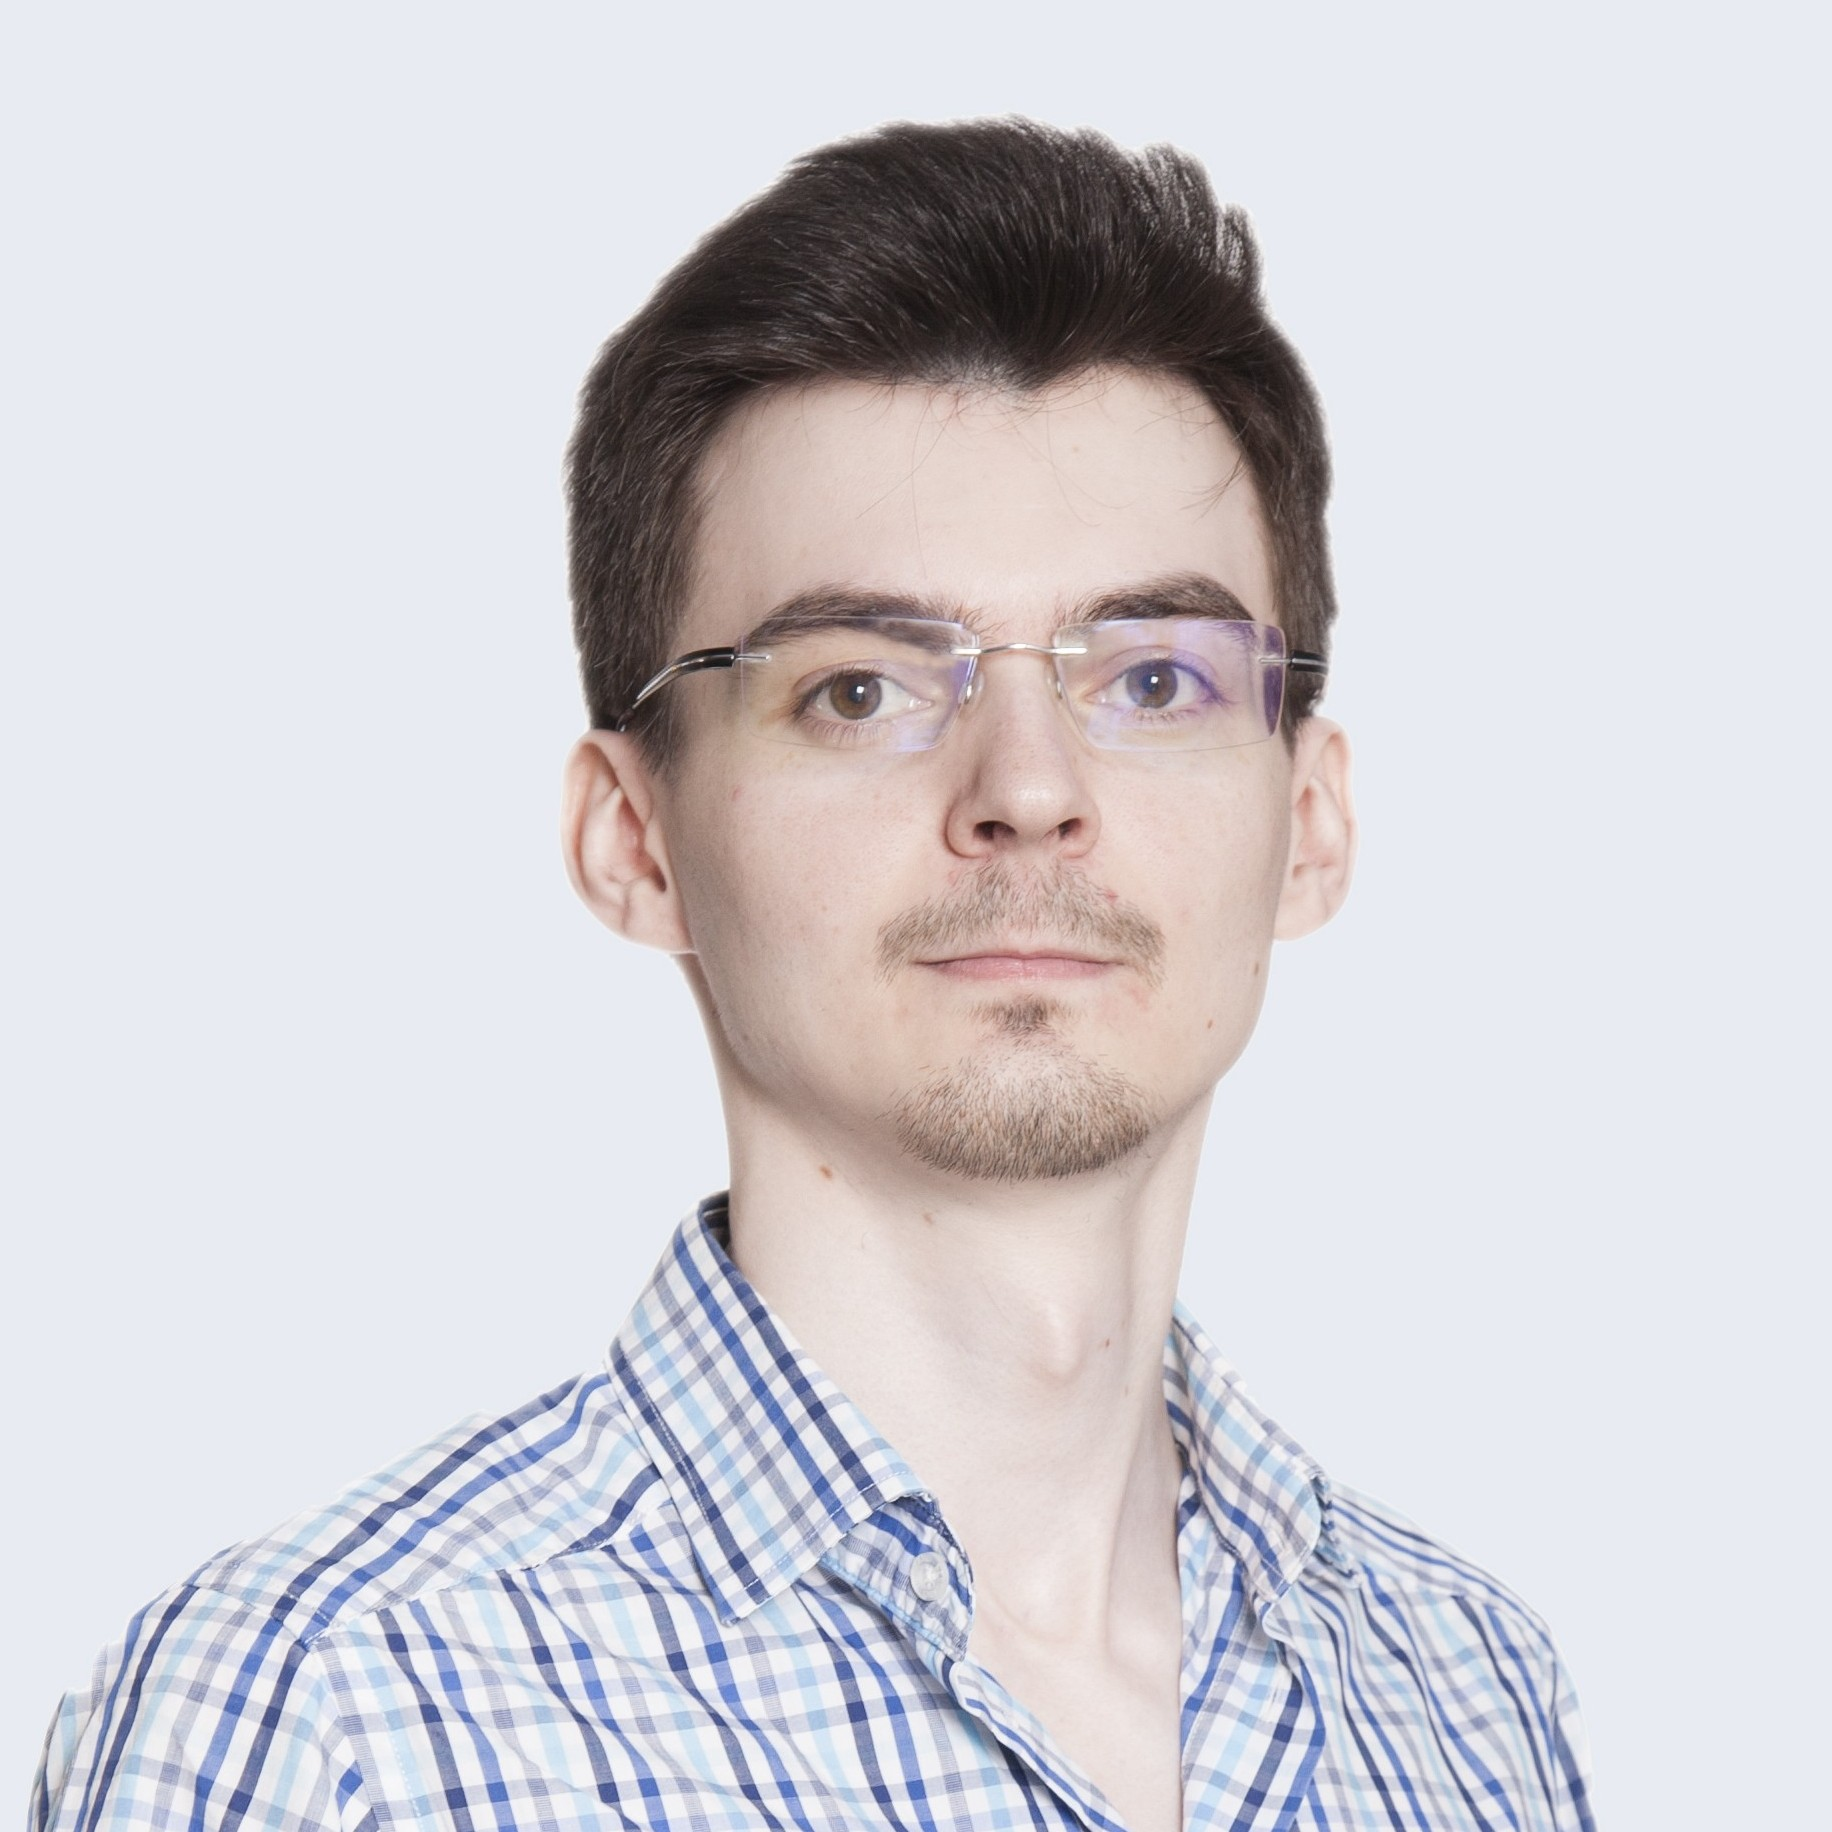
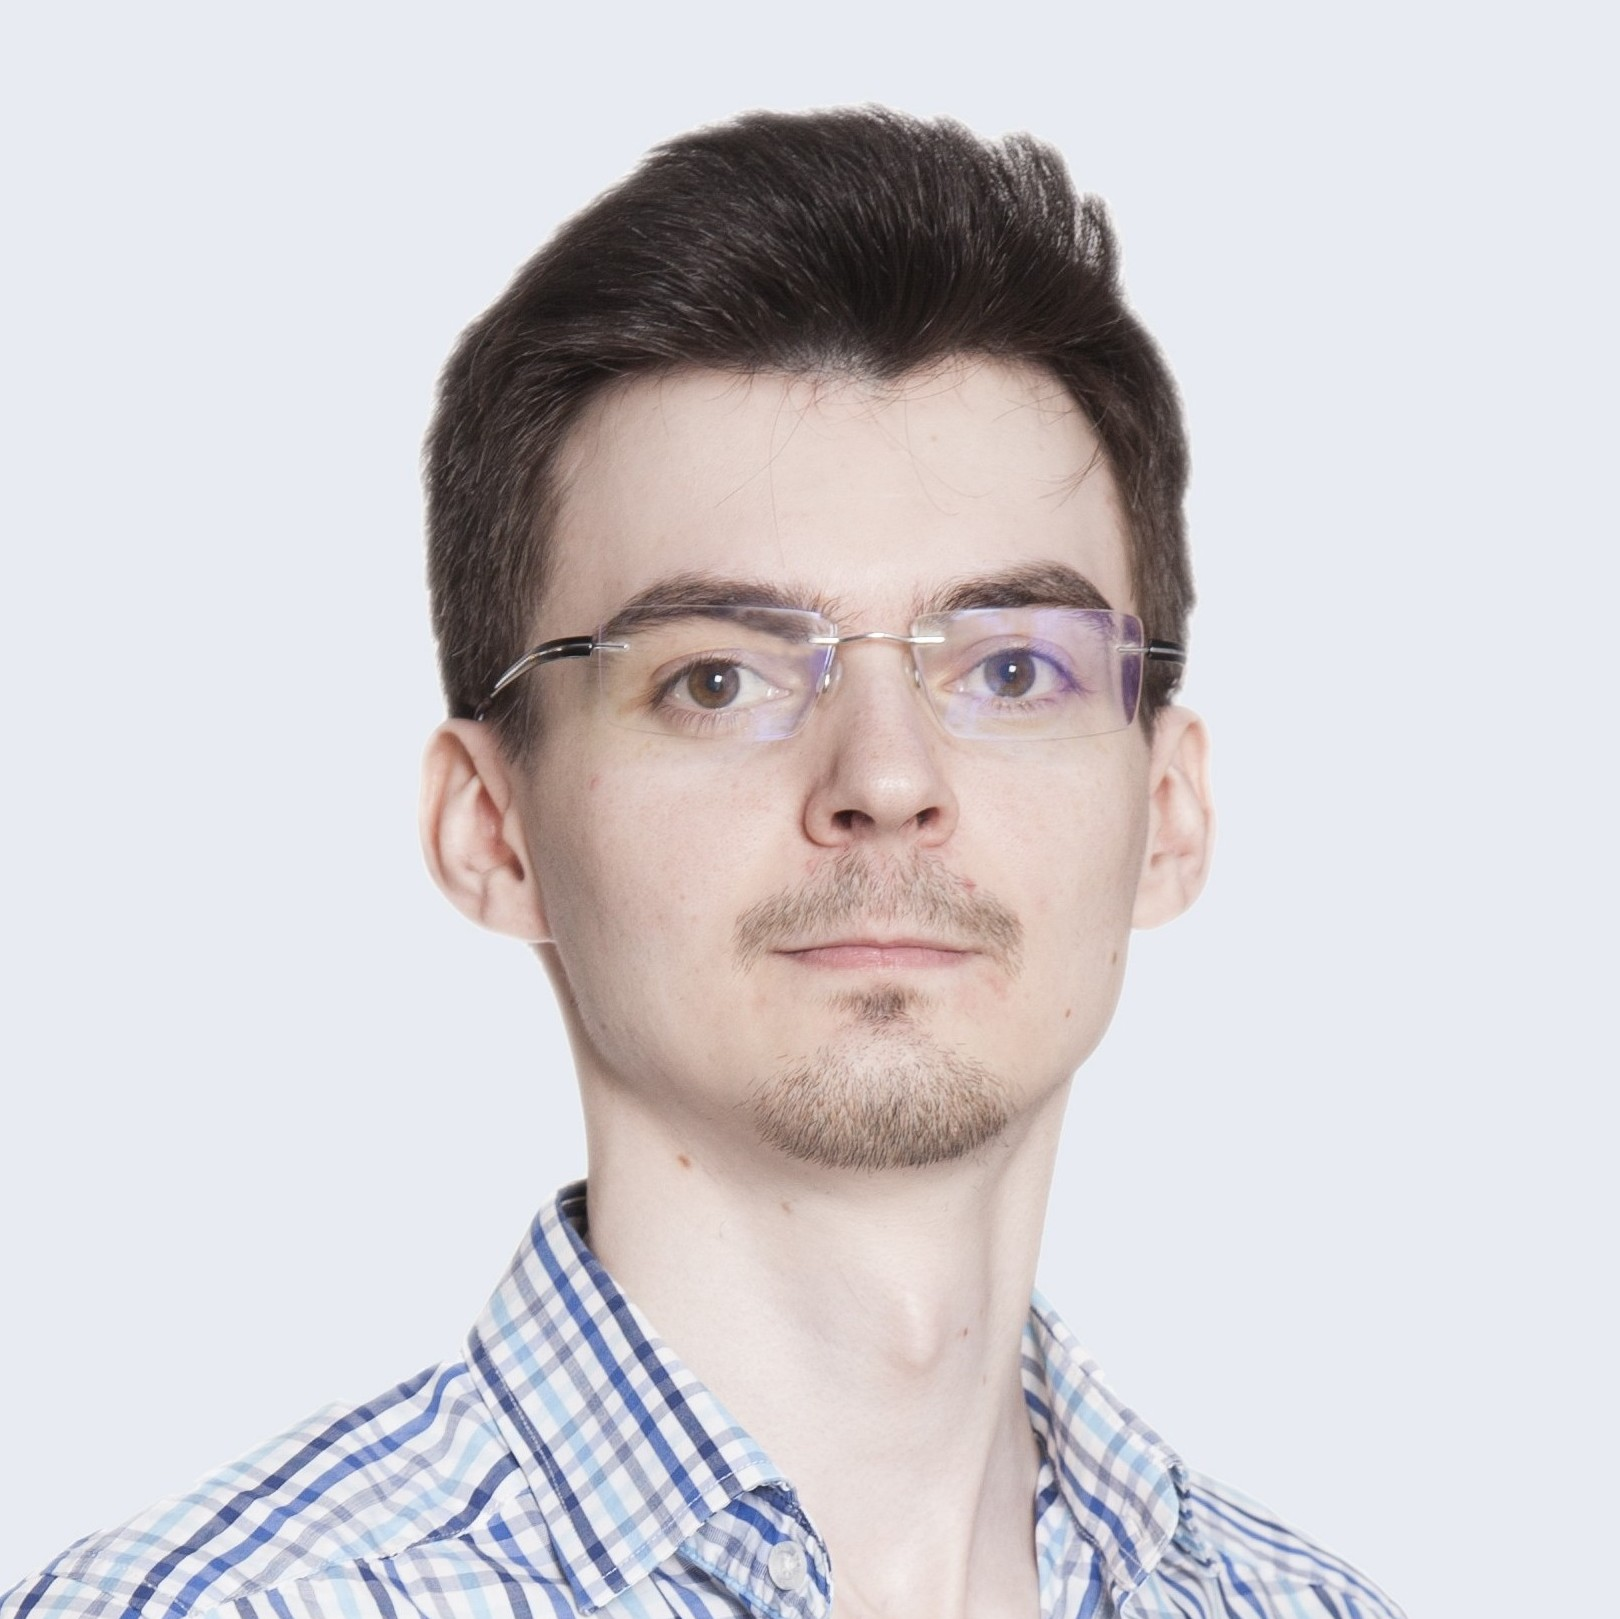
Enlarge photo

Changed region(s): [[0.0, 0.0618, 0.8951, 1.0]]

diff --git a/main.tex b/main.tex
@@ -53,7 +53,7 @@
 \social[telegram]{egormkn}
 \social[linkedin]{egormkn}
 % \extrainfo{Some info}
-\photo[55pt][0.4pt]{photo}
+\photo[58pt][0.2pt]{photo}
 
 %%%%%%%%%%%%%%%%%%%%%%%%%%%%%%%%%%%%%%%%%%%%%%%%%%%%%%%%%%%%%%%%%%%%%%%%%%%%%%%%
 %                                    CONTENT                                   %
